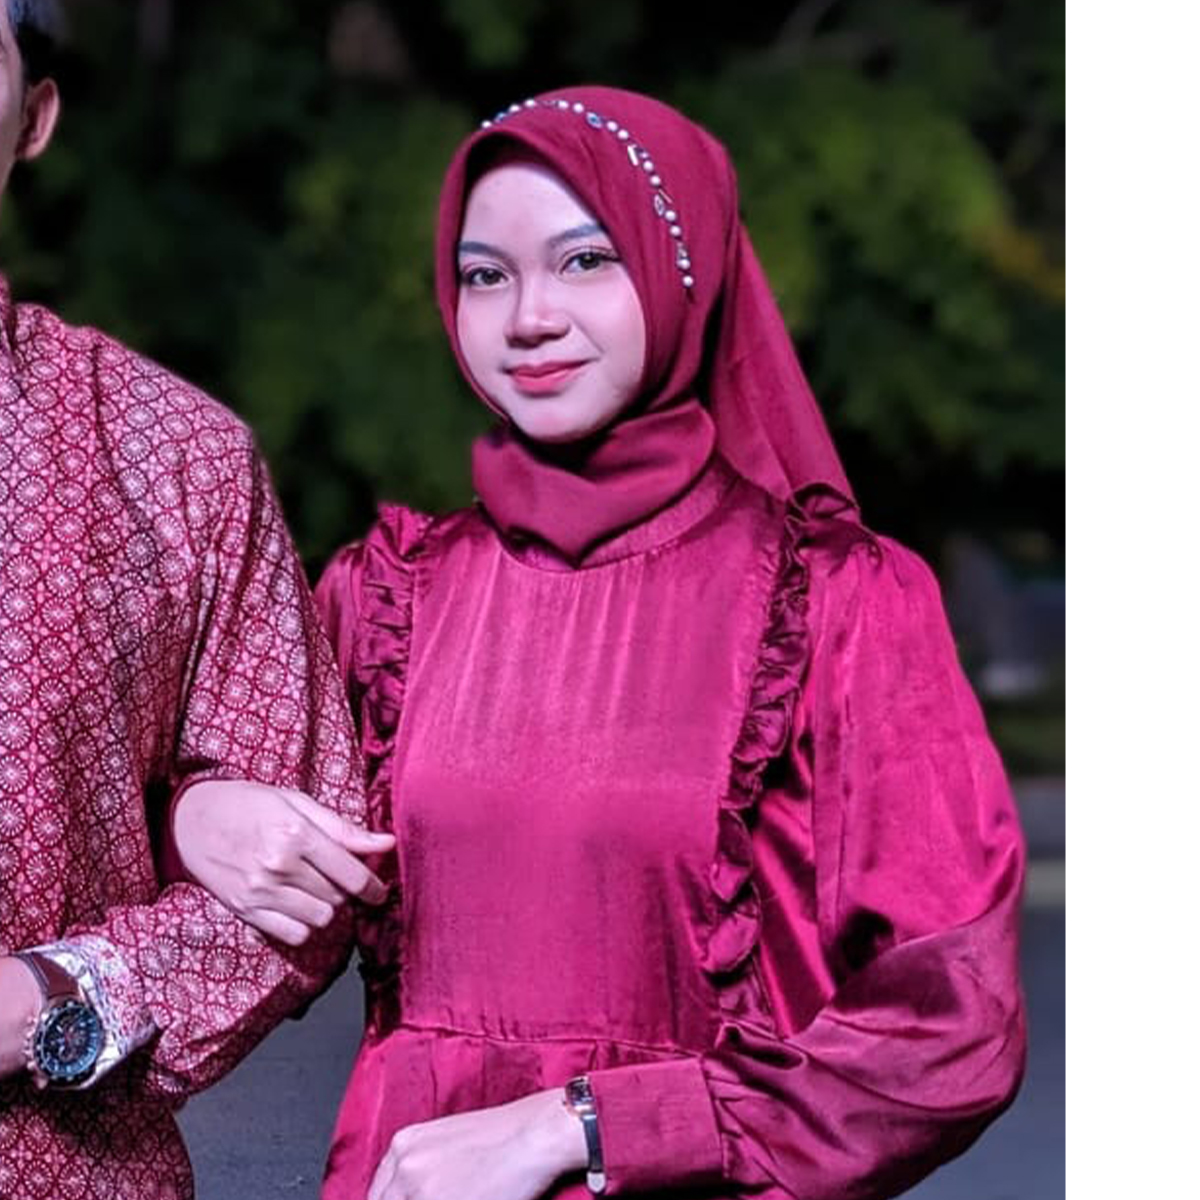
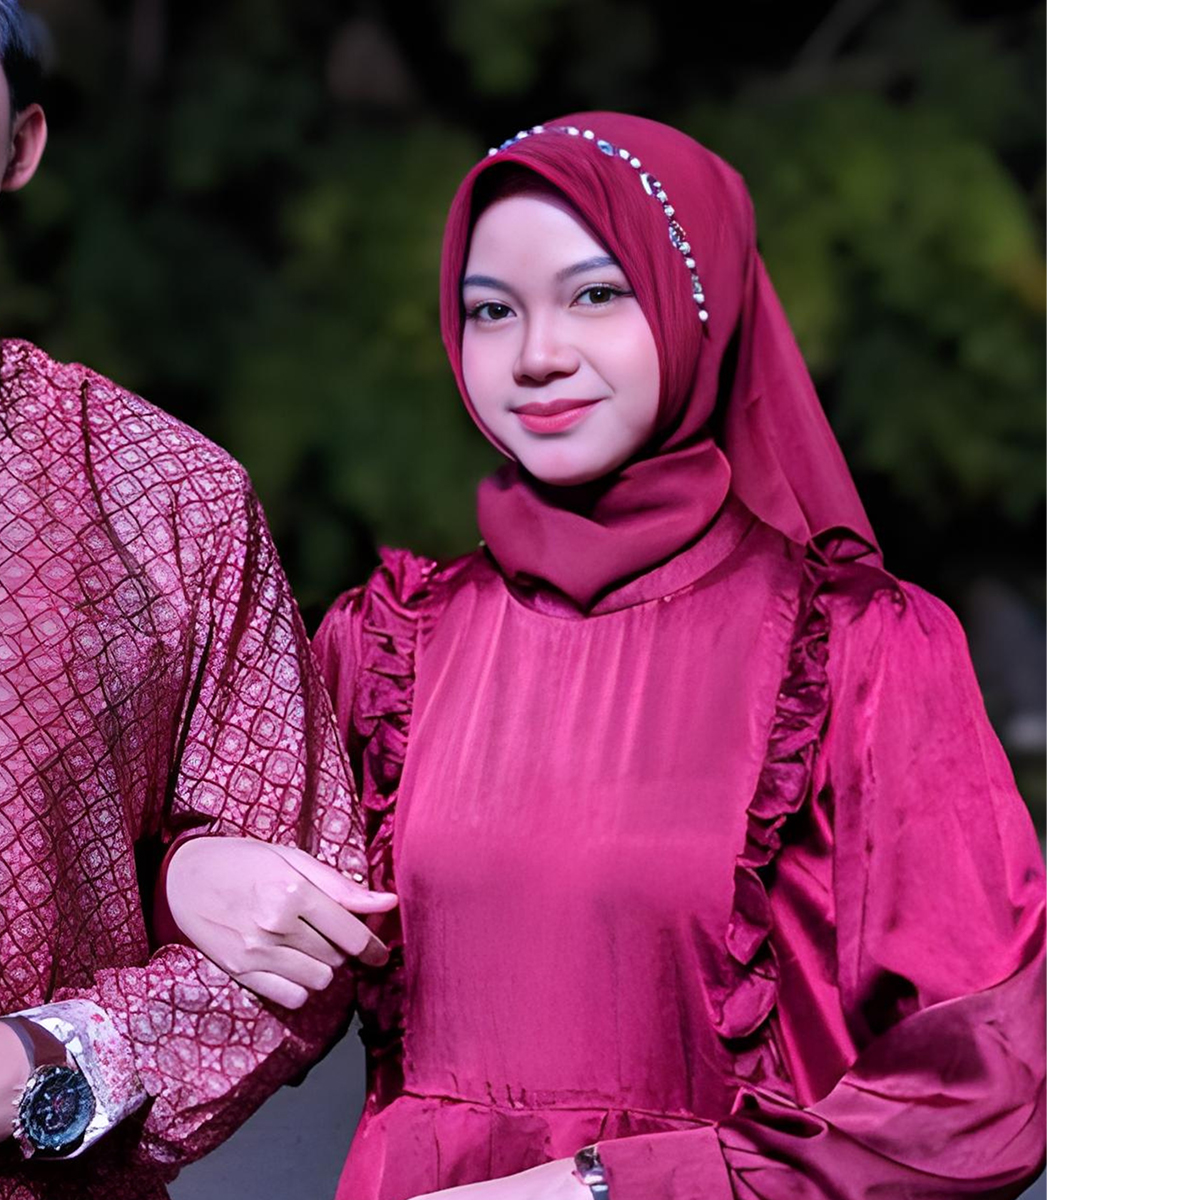
mengganti gambar HD

diff --git a/index.html b/index.html
@@ -3013,10 +3013,10 @@
                   <a
                     data-aos="zoom-in"
                     data-aos-duration="1000"
-                    href="./images/7.jpeg"
+                    href="./images/7.jpg"
                     target="_blank"
                   >
-                    <img src="./images/7.jpeg" alt="ali&dian.jpg" />
+                    <img src="./images/7.jpg" alt="ali&dian.jpg" />
                   </a>
                   <a
                     data-aos="zoom-in"
